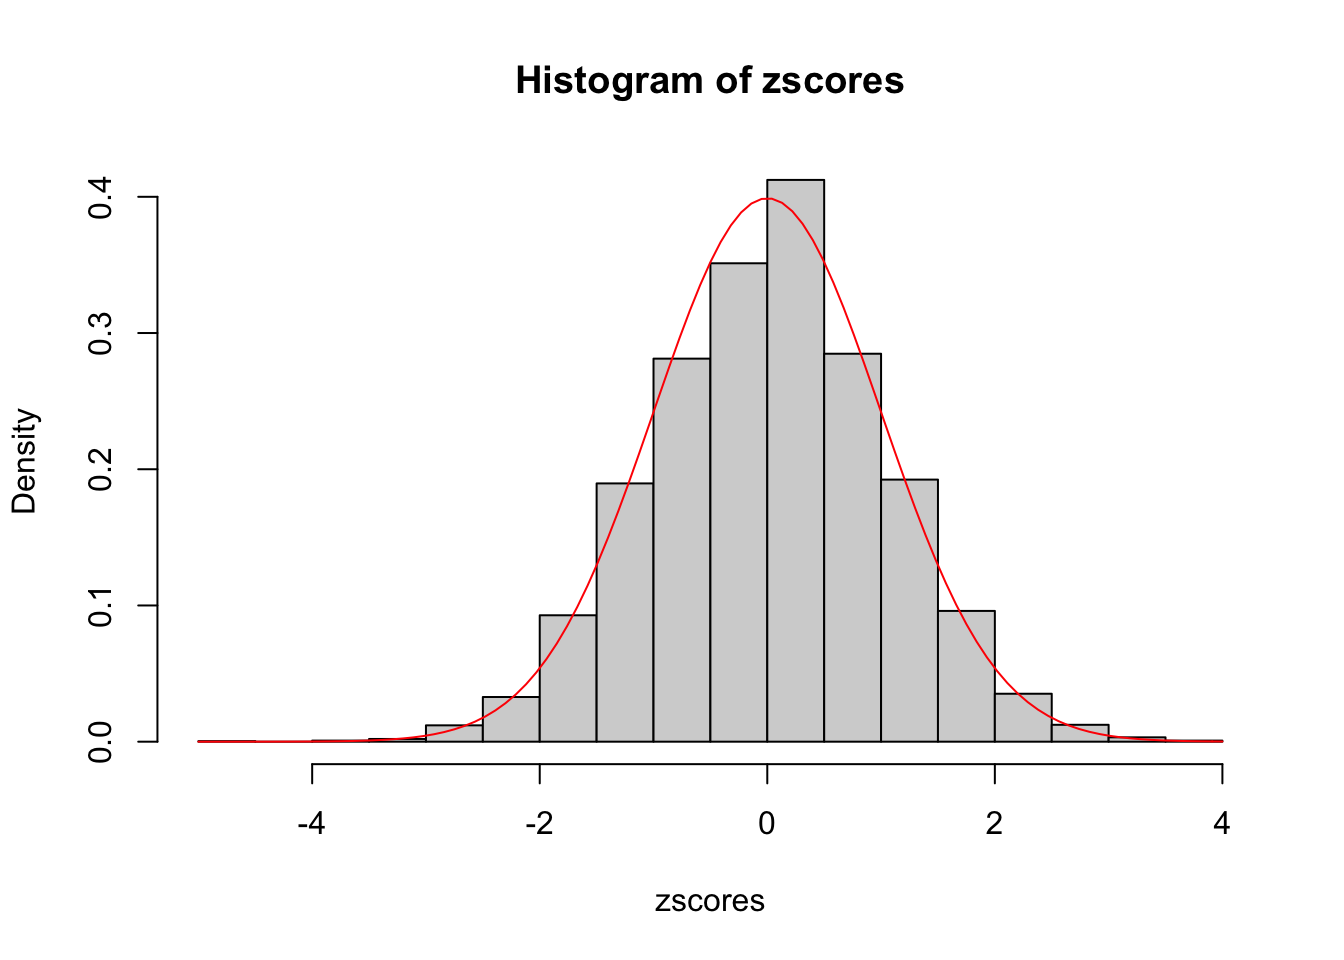
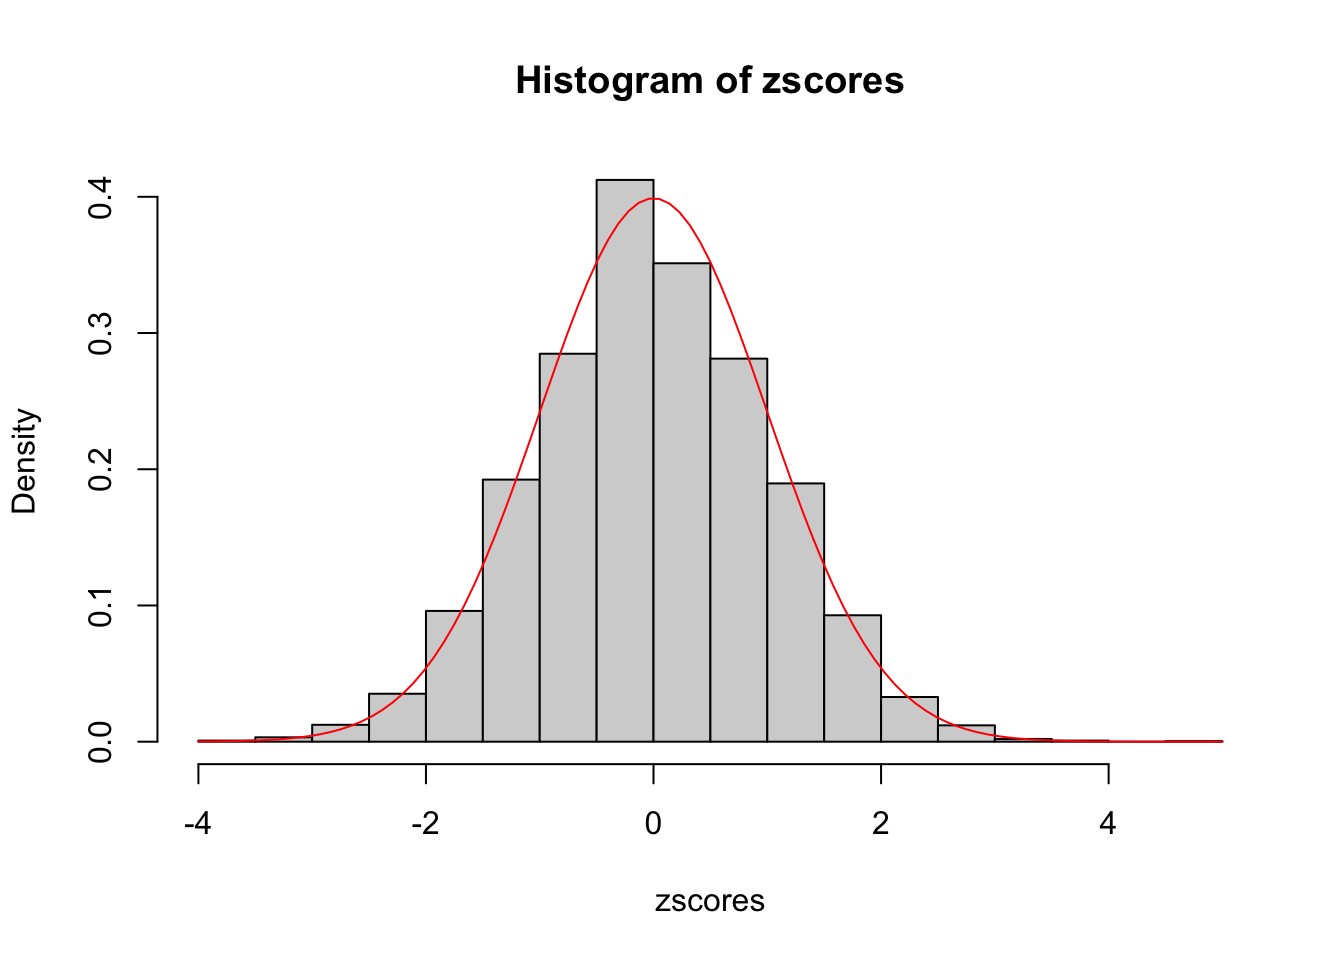
Build site.

diff --git a/docs/null_model_zscore.html b/docs/null_model_zscore.html
@@ -475,16 +475,16 @@ This reproducible <a href="http://rmarkdown.rstudio.com">R Markdown</a> analysis
 <div class="panel panel-default">
 <div class="panel-heading">
 <p class="panel-title">
-<a data-toggle="collapse" data-parent="#workflowr-checks" href="#strongRepositoryversionstrongahrefhttpsgithubcomyunqiyang0215survivalsusietree76604807c8754df4b8d7eb68b8b09bcd57131fa4targetblank7660480a"> <span class="glyphicon glyphicon-ok text-success" aria-hidden="true"></span> <strong>Repository version:</strong> <a href="https://github.com/yunqiyang0215/survival-susie/tree/76604807c8754df4b8d7eb68b8b09bcd57131fa4" target="_blank">7660480</a> </a>
+<a data-toggle="collapse" data-parent="#workflowr-checks" href="#strongRepositoryversionstrongahrefhttpsgithubcomyunqiyang0215survivalsusietree08a712d2646f1716a64bcd7f429d914c26d179e8targetblank08a712da"> <span class="glyphicon glyphicon-ok text-success" aria-hidden="true"></span> <strong>Repository version:</strong> <a href="https://github.com/yunqiyang0215/survival-susie/tree/08a712d2646f1716a64bcd7f429d914c26d179e8" target="_blank">08a712d</a> </a>
 </p>
 </div>
[2 lines of base64/hex data omitted]
 <div class="panel-body">
 <p>
 Great! You are using Git for version control. Tracking code development and connecting the code version to the results is critical for reproducibility.
 </p>
 <p>
-The results in this page were generated with repository version <a href="https://github.com/yunqiyang0215/survival-susie/tree/76604807c8754df4b8d7eb68b8b09bcd57131fa4" target="_blank">7660480</a>. See the <em>Past versions</em> tab to see a history of the changes made to the R Markdown and HTML files.
+The results in this page were generated with repository version <a href="https://github.com/yunqiyang0215/survival-susie/tree/08a712d2646f1716a64bcd7f429d914c26d179e8" target="_blank">08a712d</a>. See the <em>Past versions</em> tab to see a history of the changes made to the R Markdown and HTML files.
 </p>
 <p>
 Note that you need to be careful to ensure that all relevant files for the analysis have been committed to Git prior to generating the results (you can use <code>wflow_publish</code> or <code>wflow_git_commit</code>). workflowr only checks the R Markdown file, but you know if there are other scripts or data files that it depends on. Below is the status of the Git repository when the results were generated:
@@ -501,7 +501,6 @@ Ignored files:
 
 Unstaged changes:
     Modified:   analysis/check_coxph_fit.Rmd
-    Modified:   analysis/index.Rmd
     Deleted:    analysis/null_model_demo.Rmd
     Deleted:    analysis/one_predictor_investigation.Rmd
 
@@ -542,6 +541,40 @@ Message
 </tr>
 </thead>
 <tbody>
+<tr>
+<td>
+Rmd
+</td>
+<td>
+<a href="https://github.com/yunqiyang0215/survival-susie/blob/08a712d2646f1716a64bcd7f429d914c26d179e8/analysis/null_model_zscore.Rmd" target="_blank">08a712d</a>
+</td>
+<td>
+yunqiyang0215
+</td>
+<td>
+2023-02-14
+</td>
+<td>
+wflow_publish("analysis/null_model_zscore.Rmd")
+</td>
+</tr>
+<tr>
+<td>
+html
+</td>
+<td>
+<a href="https://rawcdn.githack.com/yunqiyang0215/survival-susie/f7a220c0626f8e838acb8ba26f5c6b149b6ac6e7/docs/null_model_zscore.html" target="_blank">f7a220c</a>
+</td>
+<td>
+yunqiyang0215
+</td>
+<td>
+2023-02-14
+</td>
+<td>
+Build site.
+</td>
+</tr>
 <tr>
 <td>
 Rmd
@@ -644,6 +677,43 @@ X = as.matrix(rnorm(n, mean = 3, sd = 2))
 dat = sim_dat(b, X)
 hist(dat$surT, breaks = 20)</code></pre>
 <p><img src="figure/null_model_zscore.Rmd/unnamed-chunk-3-1.png" width="672" style="display: block; margin: auto;" /></p>
+<p>
+<button type="button" class="btn btn-default btn-xs btn-workflowr btn-workflowr-fig" data-toggle="collapse" data-target="#fig-unnamed-chunk-3-1">
+Past versions of unnamed-chunk-3-1.png
+</button>
+</p>
+<div id="fig-unnamed-chunk-3-1" class="collapse">
+<div class="table-responsive">
+<table class="table table-condensed table-hover">
+<thead>
+<tr>
+<th>
+Version
+</th>
+<th>
+Author
+</th>
+<th>
+Date
+</th>
+</tr>
+</thead>
+<tbody>
+<tr>
+<td>
+<a href="https://github.com/yunqiyang0215/survival-susie/blob/f7a220c0626f8e838acb8ba26f5c6b149b6ac6e7/docs/figure/null_model_zscore.Rmd/unnamed-chunk-3-1.png" target="_blank">f7a220c</a>
+</td>
+<td>
+yunqiyang0215
+</td>
+<td>
+2023-02-14
+</td>
+</tr>
+</tbody>
+</table>
+</div>
+</div>
 </div>
 <div id="step-2-fit-cox-ph-model" class="section level3">
 <h3>Step 2: fit cox-ph model</h3>
@@ -683,7 +753,7 @@ for (seed in seeds){
   ## Create  survival object. status == 2 is death
   dat$y &lt;- with(dat, Surv(surT, status == 2))
   cox &lt;- coxph(y ~ x1, data =  dat)
-  zscores[seed] = coef(summary(cox))[,&quot;z&quot;]
+  zscores[seed] = -coef(summary(cox))[,&quot;z&quot;]
   
 }</code></pre>
 <pre class="r"><code>x = seq(-3, 3, length.out = 1e3)
@@ -691,6 +761,43 @@ hist(zscores, probability = TRUE)
 # The red line is the density of N(0,1)
 curve(dnorm(x, mean = 0, sd = 1), add = TRUE, col = &quot;red&quot;)</code></pre>
 <p><img src="figure/null_model_zscore.Rmd/unnamed-chunk-6-1.png" width="672" style="display: block; margin: auto;" /></p>
+<p>
+<button type="button" class="btn btn-default btn-xs btn-workflowr btn-workflowr-fig" data-toggle="collapse" data-target="#fig-unnamed-chunk-6-1">
+Past versions of unnamed-chunk-6-1.png
+</button>
+</p>
+<div id="fig-unnamed-chunk-6-1" class="collapse">
+<div class="table-responsive">
+<table class="table table-condensed table-hover">
+<thead>
+<tr>
+<th>
+Version
+</th>
+<th>
+Author
+</th>
+<th>
+Date
+</th>
+</tr>
+</thead>
+<tbody>
+<tr>
+<td>
+<a href="https://github.com/yunqiyang0215/survival-susie/blob/f7a220c0626f8e838acb8ba26f5c6b149b6ac6e7/docs/figure/null_model_zscore.Rmd/unnamed-chunk-6-1.png" target="_blank">f7a220c</a>
+</td>
+<td>
+yunqiyang0215
+</td>
+<td>
+2023-02-14
+</td>
+</tr>
+</tbody>
+</table>
+</div>
+</div>
 <br>
 <p>
 <button type="button" class="btn btn-default btn-workflowr btn-workflowr-sessioninfo" data-toggle="collapse" data-target="#workflowr-sessioninfo" style="display: block;">
